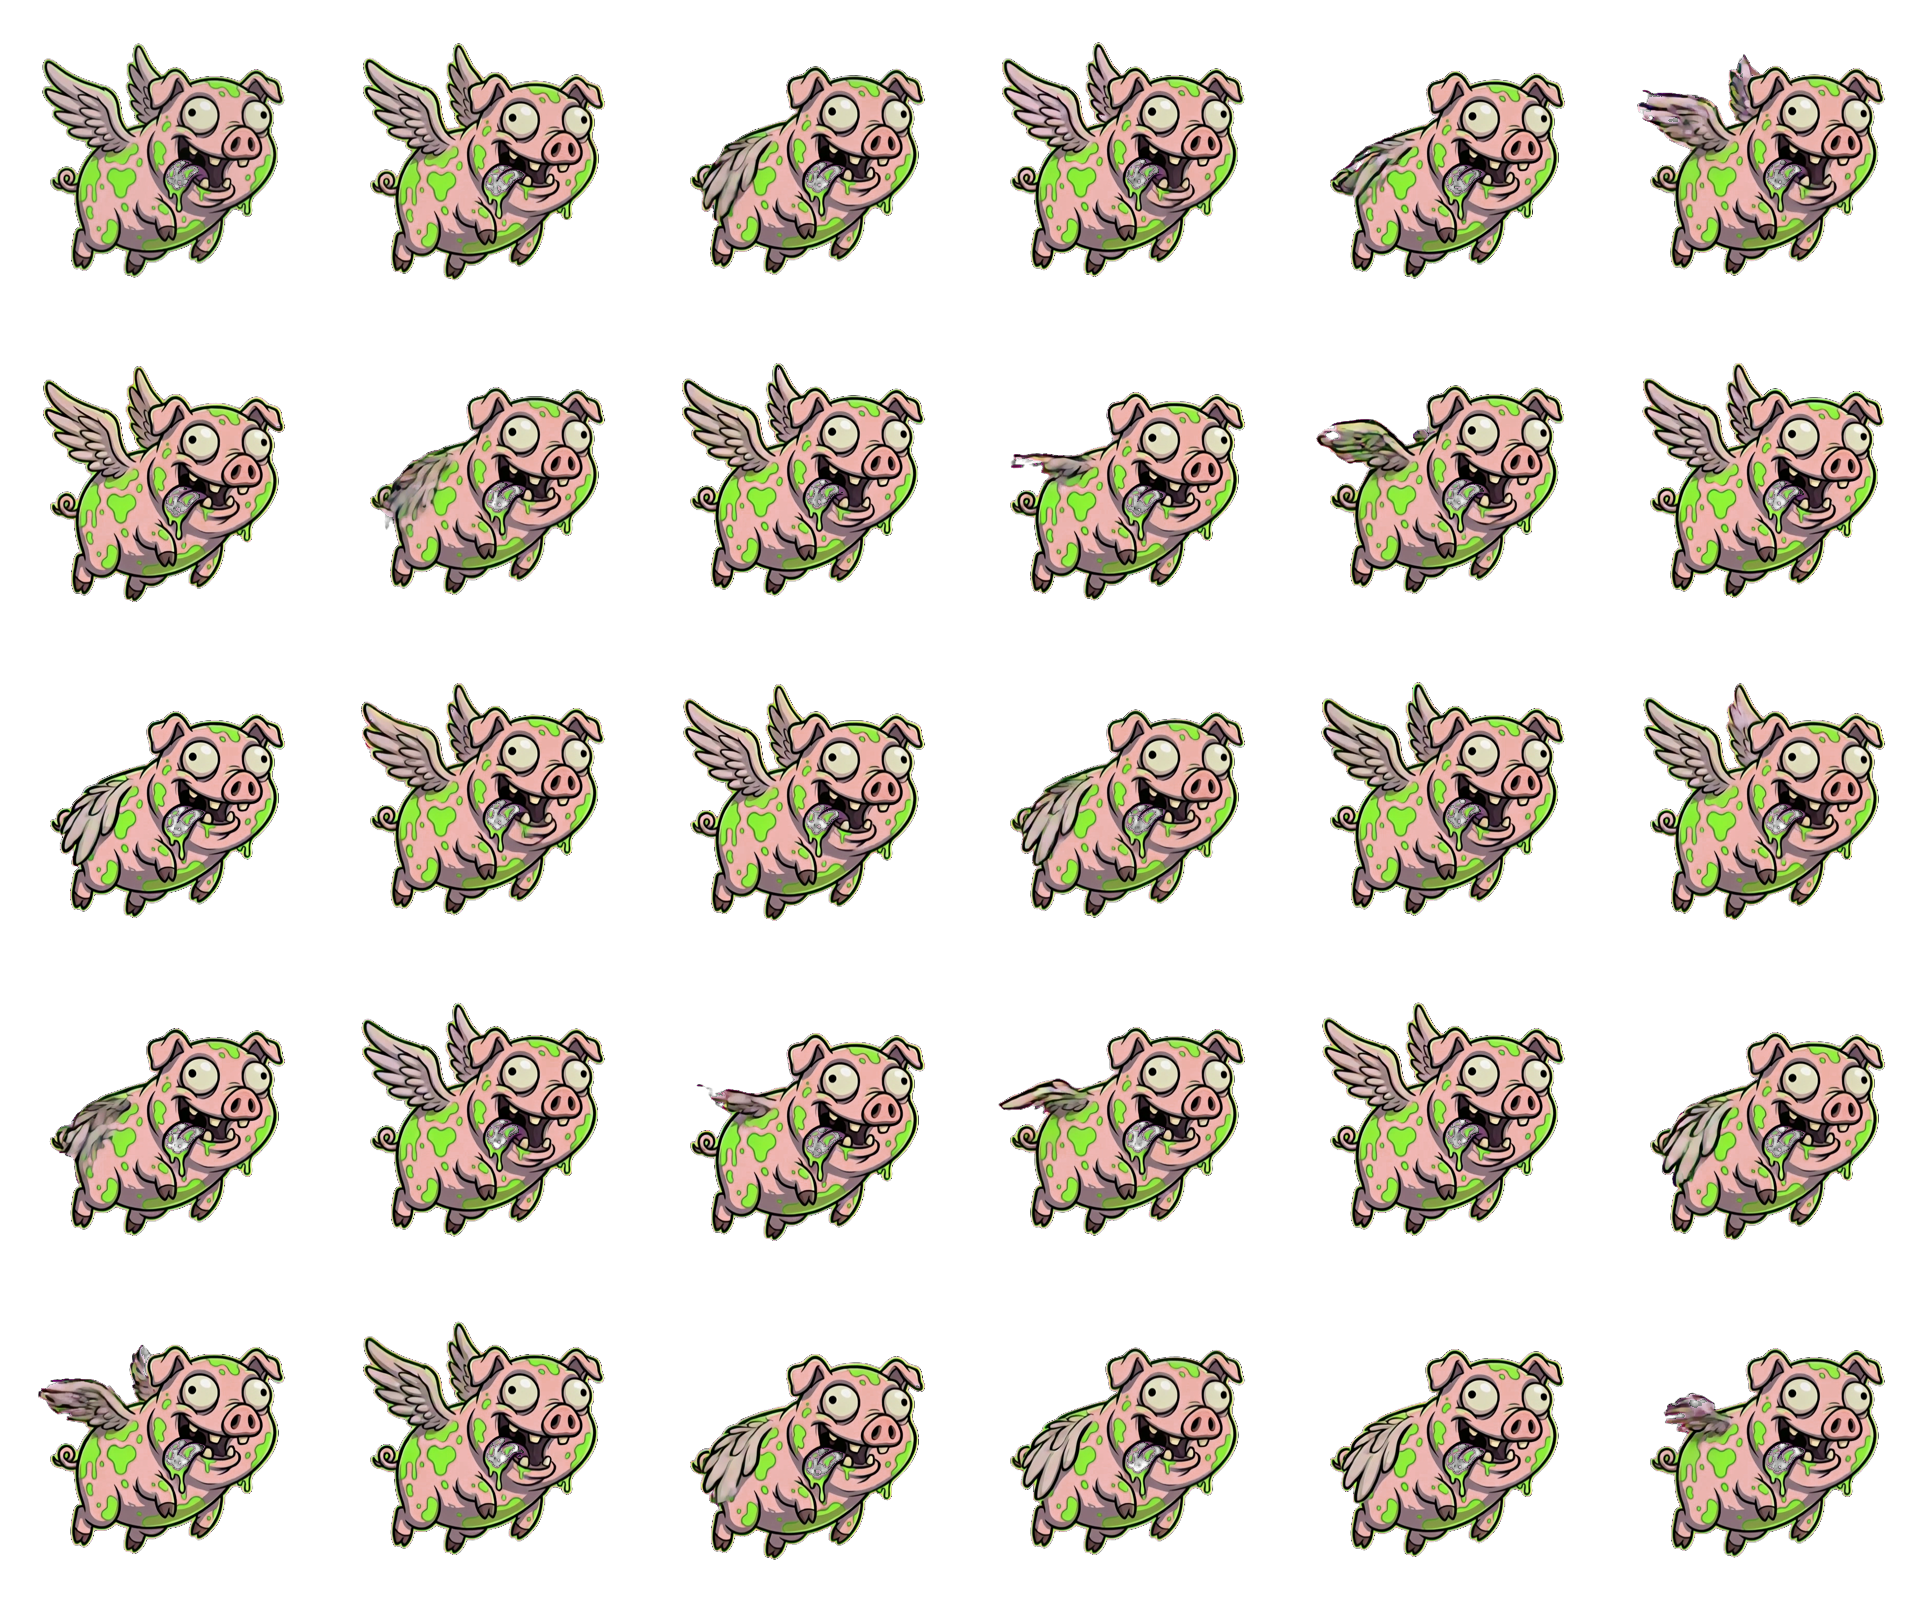
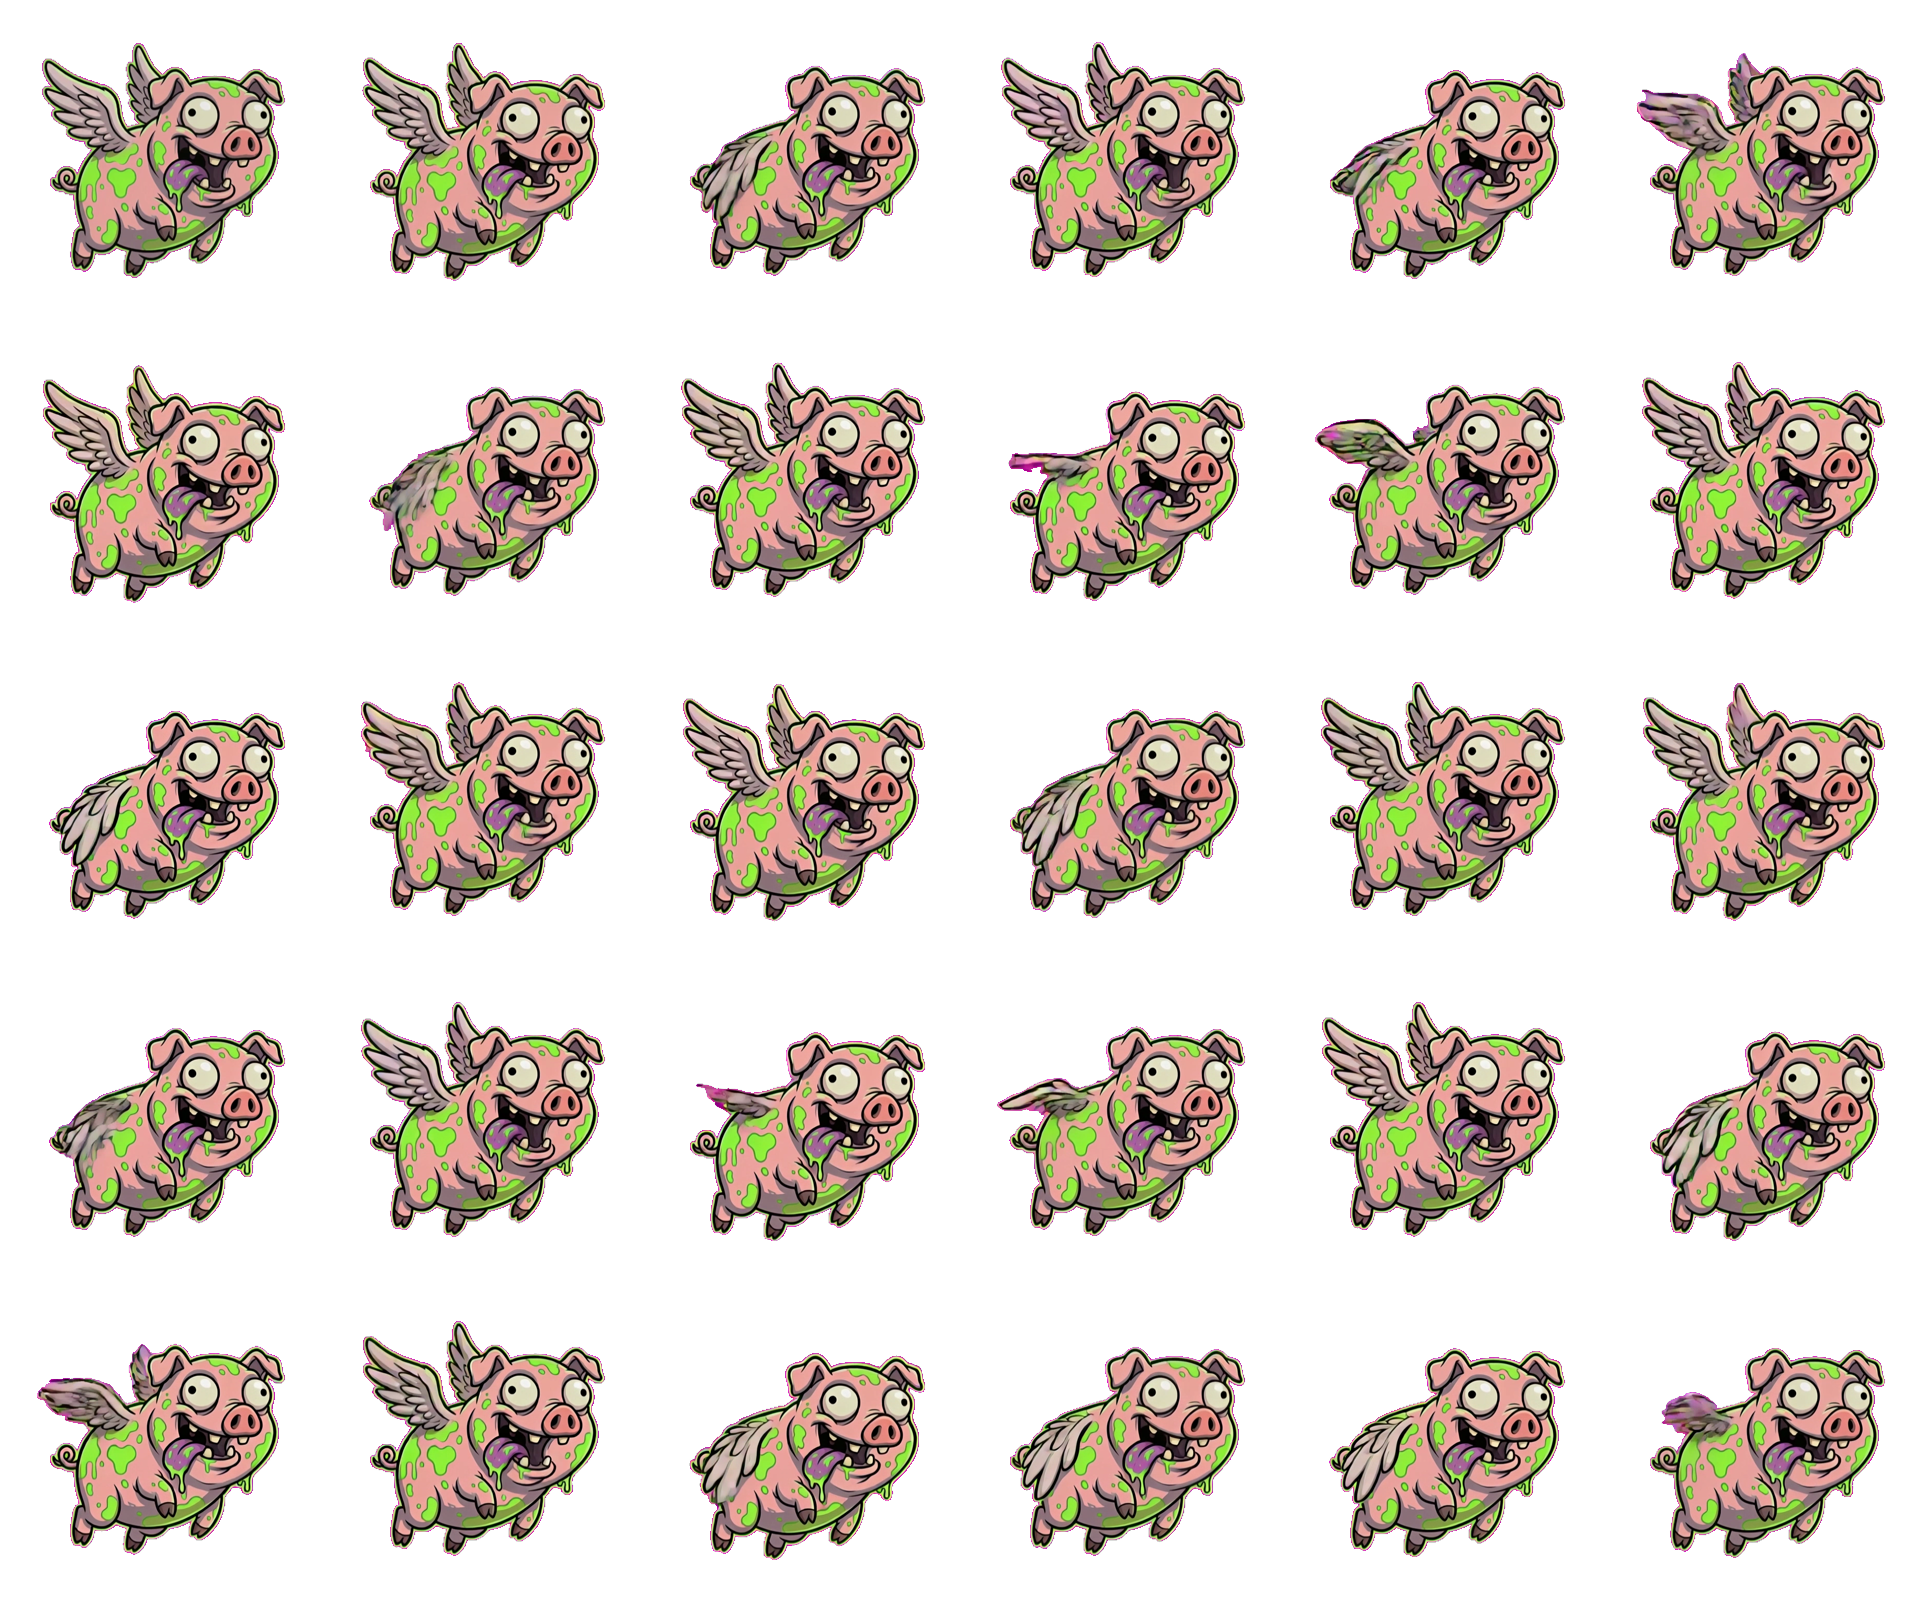
Crack Farm: pig opaque + in front of frame; Wild-Storm plant relocation
Pig: (1) filled the see-through belly — the chroma key punched holes in it, now
binary-fill-holes makes the body fully opaque; (2) lifted IN FRONT of the barn
frame (the frame loaded after the mascot and covered it — re-elevate on frame
add). Both per Noski.

Plant relocation between free spins is now the Wild-Storm move (Noski: "links
rechts schnell wandert, position teaser, statt runter schweben"): the plant
DASHES sideways on the reel floor with a lean, overshoots the target, snaps
back, and locks in place with a scale-pop — no floating down, no pad rise. The
base-game feature keeps its rise-from-pad (glideArrival flag distinguishes them).

diff --git a/src/game/ReelSet.ts b/src/game/ReelSet.ts
@@ -1145,31 +1145,45 @@ export class ReelSet {
     tl.call(() => { if (ghost.parent) ghost.parent.removeChild(ghost); }, undefined, 0.4);
   }
 
+  /** Set while a relocating plant has GLIDED into its target reel — the reveal
+   *  there locks it in place (small pop) instead of rising it from the floor. */
+  private glideArrival = false;
+
   private startPlantRelocate(fromReel: number, toReel: number): boolean {
     const tex = this.expandWildTexture;
     if (!tex) return false;
     const rFrom = resolveAnchor(reelAnchor(fromReel), this.grid);
+    const rTo = resolveAnchor(reelAnchor(toReel), this.grid);
     const ghost = new Sprite(tex);
     ghost.anchor.set(0.5, 1);
     ghost.scale.set(this.expandGrowth === 'bottom-up'
       ? Math.min(rFrom.h / tex.height, (rFrom.w * 1.3) / tex.width)
       : (rFrom.w * 0.98) / tex.width);
-    ghost.position.set(rFrom.x + rFrom.w / 2, rFrom.y + rFrom.h);
+    const floorY = rFrom.y + rFrom.h;         // reel floor — stays level (no sink)
+    ghost.position.set(rFrom.x + rFrom.w / 2, floorY);
     ghost.alpha = this.expandStyle.plantAlpha;
     ghost.eventMode = 'none';
     this.stickyContainer.addChild(ghost);
     this.stickyRevealObjects.push(ghost);
     this.roamGlideSpr = ghost;
 
+    // WILD-STORM RELOCATION (Noski): the plant DASHES sideways on the spot —
+    // fast horizontal wander with a lean, a teaser overshoot past the target,
+    // then a snappy snap-back into place. NO floating down. Pure pacing.
+    const dir = Math.sign((rTo.x + rTo.w / 2) - (rFrom.x + rFrom.w / 2)) || 1;
+    const targetX = rTo.x + rTo.w / 2;
+    const overshootX = targetX + dir * rTo.w * 0.5;
+    const baseSY = ghost.scale.y;
     const tl = gsap.timeline();
     this.stickyRevealTweens.push(tl);
-    // Sink out through the reel floor — a squash first, like it ducks away.
-    tl.to(ghost.scale, { y: ghost.scale.y * 0.9, duration: 0.1, ease: 'power2.out' }, 0);
-    tl.to(ghost, { y: rFrom.y + rFrom.h + rFrom.h * 0.85, duration: 0.32, ease: 'power2.in' }, 0.06);
-    tl.to(ghost, { alpha: 0, duration: 0.2, ease: 'power1.in' }, 0.2);
-    tl.call(() => { if (ghost.parent) ghost.parent.removeChild(ghost); this.roamGlideSpr = null; }, undefined, 0.4);
-    // Pads take over and pick the new spot while the reels are still rolling.
-    tl.call(() => { void this.playPadTease(toReel); }, undefined, 0.26);
+    tl.to(ghost, { rotation: dir * 0.16, duration: 0.07, ease: 'power2.out' }, 0);          // lean into the dash
+    tl.to(ghost.scale, { y: baseSY * 0.94, duration: 0.07 }, 0);                              // squash-stretch
+    tl.to(ghost, { x: overshootX, duration: 0.19, ease: 'power3.in' }, 0.04);                 // FAST slide across
+    tl.to(ghost, { x: targetX, rotation: 0, duration: 0.15, ease: 'back.out(2.6)' }, 0.23);   // snap-back into the slot
+    tl.to(ghost.scale, { y: baseSY, duration: 0.12, ease: 'back.out(2)' }, 0.23);
+    tl.call(() => { this.glideArrival = true; }, undefined, 0.30);                            // the reveal now locks in place
+    tl.to(ghost, { alpha: 0, duration: 0.08, ease: 'power1.in' }, 0.34);                      // hand off to the real reveal
+    tl.call(() => { if (ghost.parent) ghost.parent.removeChild(ghost); this.roamGlideSpr = null; }, undefined, 0.42);
     return true;
   }
 
@@ -1420,13 +1434,22 @@ export class ReelSet {
       if (clear) tl.to(clear, { alpha: 1, duration: (preGrown ? 0.04 : 0.12) * speed, ease: 'power2.out' }, T_CLEAR);
       tl.to(spr, { alpha: this.expandStyle.plantAlpha, duration: (preGrown ? 0.03 : 0.07) * speed, ease: 'power1.out' }, Math.max(0, T_RACE - 0.02 * speed));
       if (preGrown) {
-        // PUSH UP OUT OF THE PAD: the plant rises from below the reel floor
-        // into place (the pad under it stays lit until it lands), instead of
-        // simply appearing. This is the other half of the relocation.
         tl.call(() => this.clearRoamGlide(), undefined, 0);
         const restY = rr.y + rr.h;
-        spr.y = restY + rr.h * 0.95;
-        tl.to(spr, { y: restY, duration: 0.34, ease: 'back.out(1.25)' }, T_RACE);
+        if (this.glideArrival) {
+          // GLIDED IN sideways (Wild-Storm relocation): lock in place with a
+          // snappy scale-pop — no rise from the floor.
+          this.glideArrival = false;
+          spr.y = restY;
+          const bsx = spr.scale.x, bsy = spr.scale.y;
+          spr.scale.set(bsx * 0.82, bsy * 0.82);
+          tl.to(spr.scale, { x: bsx, y: bsy, duration: 0.22, ease: 'back.out(2.6)' }, T_RACE);
+        } else {
+          // PUSH UP OUT OF THE PAD: the plant rises from below the reel floor
+          // into place (used by the base-game feature reveal).
+          spr.y = restY + rr.h * 0.95;
+          tl.to(spr, { y: restY, duration: 0.34, ease: 'back.out(1.25)' }, T_RACE);
+        }
         // Pads dim away as the plant seats itself.
         tl.call(() => this.hidePads(0.3), undefined, T_RACE + 0.2);
       } else {

diff --git a/src/game/PixiApp.ts b/src/game/PixiApp.ts
@@ -910,6 +910,10 @@ export class PixiApp {
     }
     this.frameImageSprite = sp;
     this.gameContainer.addChild(sp);
+    // The flying-pig mascot rides IN FRONT of the frame art (Noski: "schwein
+    // muss layer davor sein"). The frame can load after the mascot, so lift it
+    // back on top here.
+    if (this.mascotSprite?.parent) this.gameContainer.addChild(this.mascotSprite.parent);
     // SYMBOLS RIDE OVER THE FRAME (Noski: corners were getting nibbled by the
     // barn border). The reel set is clipped to the grid anyway, so lifting it
     // above the frame art can't spill outside the window — it only stops the